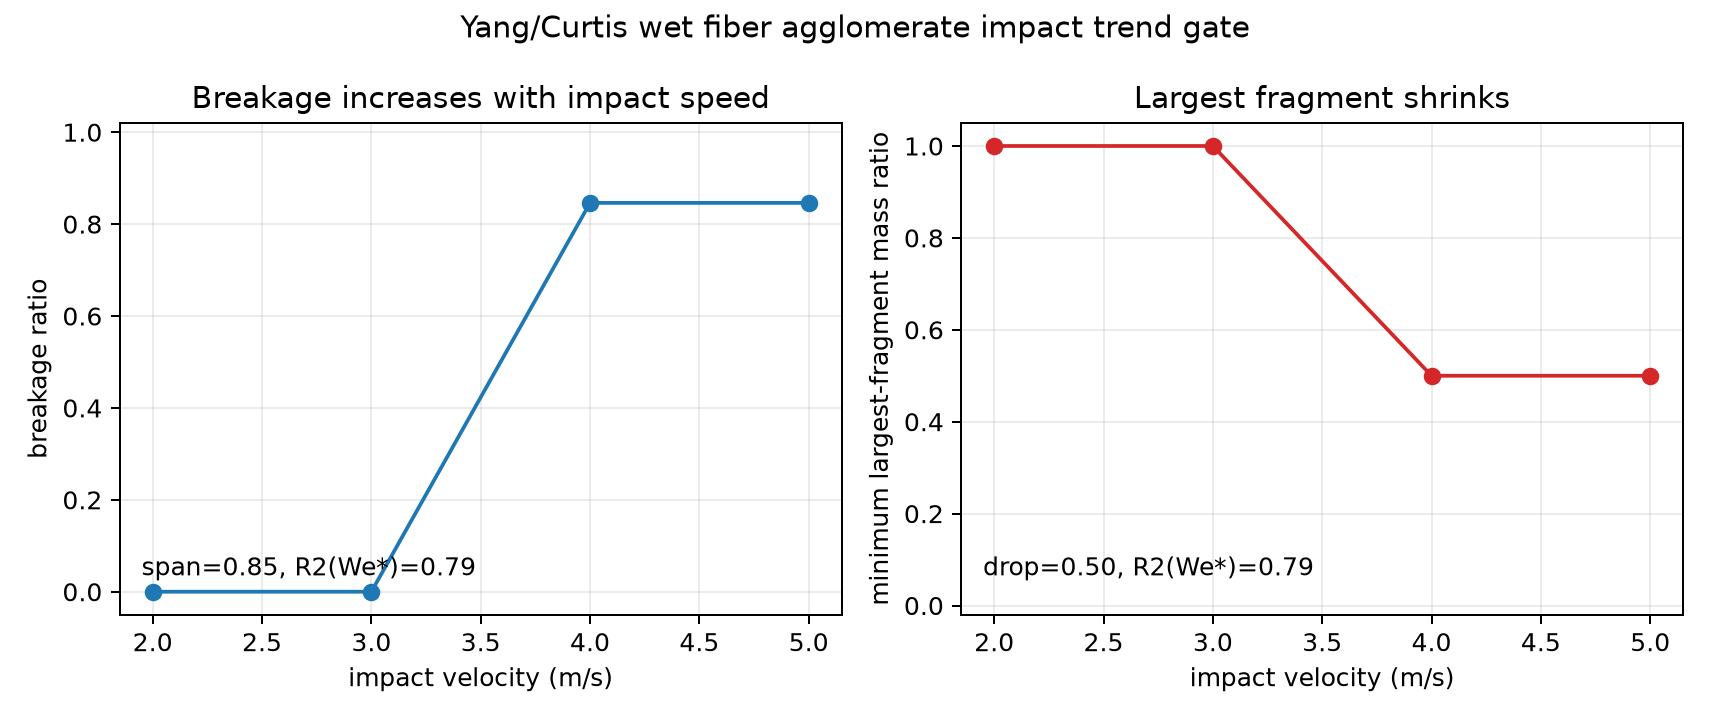
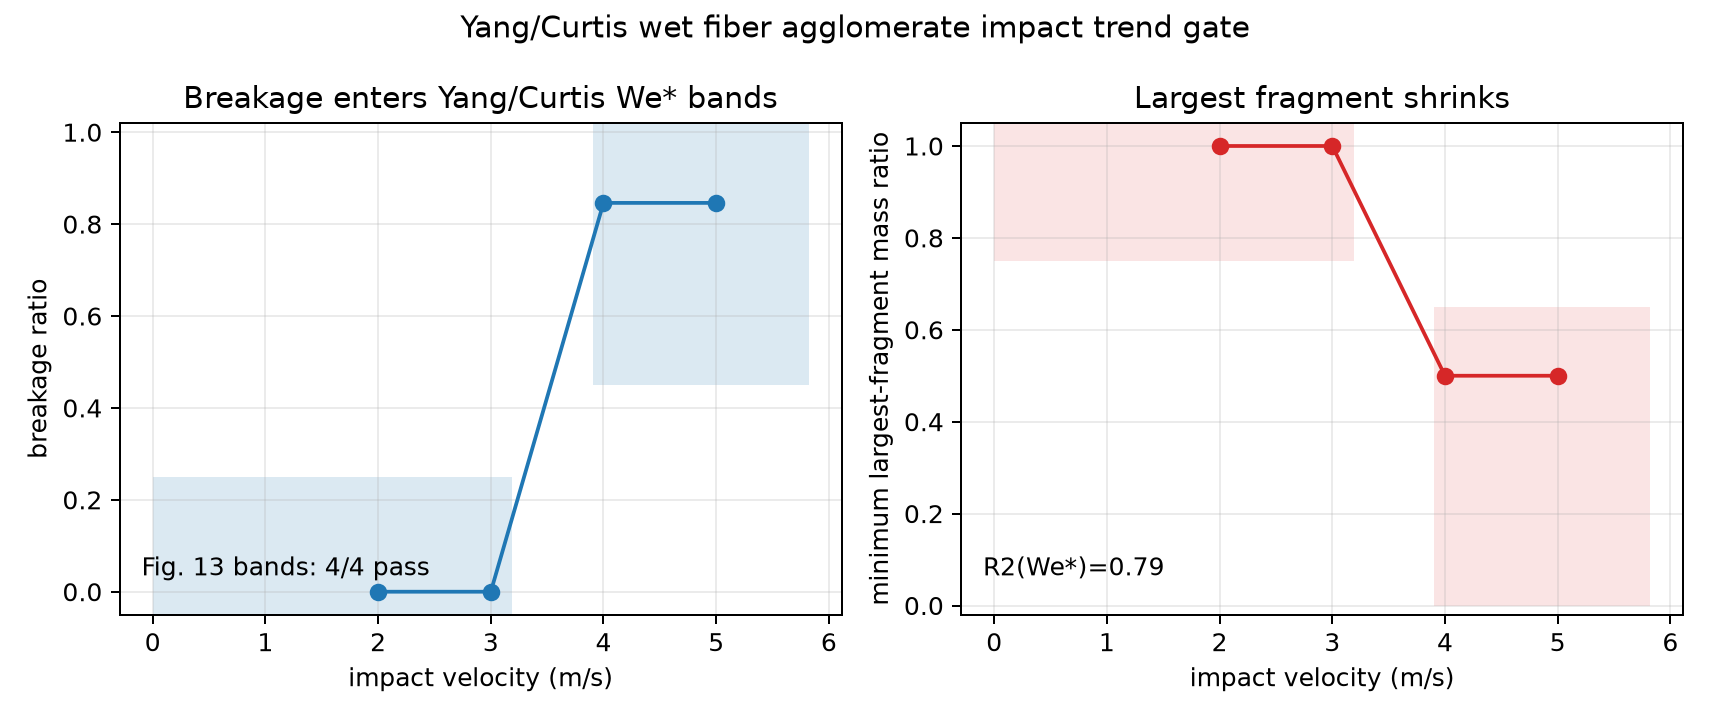
Gate wet fiber breakage against Yang Curtis bands

diff --git a/examples/bench_curtis_wet_fiber_breakage/sweep.py b/examples/bench_curtis_wet_fiber_breakage/sweep.py
@@ -32,10 +32,7 @@ RUPTURE = 4.0e-4
 RHO = 1700.0
 IMPACT_VELOCITIES = [2.0, 3.0, 4.0, 5.0]
 
-TREND_MIN_R2 = 0.75
-BREAKAGE_MIN_SPAN = 0.22
-MASS_MIN_DROP = 0.28
-MAX_OFFTREND = 1
+REFERENCE_BANDS = DATA / "yang_curtis_reference_bands.csv"
 
 
 def run(cmd: list[str]) -> None:
@@ -43,8 +40,9 @@ def run(cmd: list[str]) -> None:
     subprocess.run(cmd, cwd=ROOT, check=True)
 
 
-def generate_geometry(v: float = 1.0) -> None:
-    DATA.mkdir(exist_ok=True)
+def generate_geometry(v: float = 1.0, path: Path | None = None) -> None:
+    path = path or (DATA / "agglomerate.csv")
+    path.parent.mkdir(parents=True, exist_ok=True)
     rows: list[tuple[float, float, float, float]] = []
     offsets = [
         (0.0, 0.0, 0.0),
@@ -59,19 +57,24 @@ def generate_geometry(v: float = 1.0) -> None:
         for b in range(BEADS):
             x = (b - 0.5 * (BEADS - 1)) * BEAD_SPACING
             rows.append((ox + c * x, oy + s * x, base_z + oz, -v))
-    with open(DATA / "agglomerate.csv", "w") as fh:
+    with open(path, "w") as fh:
         fh.write("# x,y,z,vz\n")
         for x, y, z, vz in rows:
             fh.write(f"{x:.10e},{y:.10e},{z:.10e},{vz:.10e}\n")
 
 
 def write_config(v: float) -> Path:
-    generate_geometry(v)
     text = (HERE / "config.toml").read_text()
     out = SWEEP / f"v{v:.1f}"
+    geometry = out / "agglomerate.csv"
+    generate_geometry(v, geometry)
     cfg = out / "config.toml"
     out.mkdir(parents=True, exist_ok=True)
     text = text.replace("velocity_z = -1.0", f"velocity_z = -{v:.6f}")
+    text = text.replace(
+        'file = "examples/bench_curtis_wet_fiber_breakage/data/agglomerate.csv"',
+        f'file = "examples/bench_curtis_wet_fiber_breakage/sweep/v{v:.1f}/agglomerate.csv"',
+    )
     text = text.replace(
         'dir = "examples/bench_curtis_wet_fiber_breakage/sweep/template"',
         f'dir = "examples/bench_curtis_wet_fiber_breakage/sweep/v{v:.1f}"',
@@ -137,6 +140,40 @@ def summarize_case(v: float) -> dict[str, float]:
     }
 
 
+def load_reference_bands() -> list[dict[str, float | str]]:
+    bands: list[dict[str, float | str]] = []
+    with open(REFERENCE_BANDS) as fh:
+        for row in csv.DictReader(fh):
+            bands.append({
+                "modified_weber_min": float(row["modified_weber_min"]),
+                "modified_weber_max": float(row["modified_weber_max"]),
+                "breakage_min": float(row["breakage_min"]),
+                "breakage_max": float(row["breakage_max"]),
+                "mass_min": float(row["mass_min"]),
+                "mass_max": float(row["mass_max"]),
+                "source": row["source"],
+            })
+    if not bands:
+        raise RuntimeError(f"no reference bands in {REFERENCE_BANDS}")
+    return bands
+
+
+def matching_band(modified_weber: float, bands: list[dict[str, float | str]]) -> dict[str, float | str]:
+    for band in bands:
+        if band["modified_weber_min"] <= modified_weber <= band["modified_weber_max"]:
+            return band
+    raise RuntimeError(
+        f"We*={modified_weber:.1f} is outside the committed Yang/Curtis reference bands"
+    )
+
+
+def within_reference(row: dict[str, float], band: dict[str, float | str]) -> bool:
+    return (
+        band["breakage_min"] <= row["breakage_ratio"] <= band["breakage_max"]
+        and band["mass_min"] <= row["min_largest_fragment_mass_ratio"] <= band["mass_max"]
+    )
+
+
 def monotone_violations(values: list[float], increasing: bool) -> int:
     bad = 0
     for a, b in zip(values, values[1:]):
@@ -164,14 +201,25 @@ def graph() -> None:
     rows = [summarize_case(v) for v in IMPACT_VELOCITIES]
     with open(DATA / "velocity_sweep.csv", "w") as fh:
         fields = list(rows[0].keys())
-        writer = csv.DictWriter(fh, fieldnames=fields)
+        writer = csv.DictWriter(fh, fieldnames=fields, lineterminator="\n")
         writer.writeheader()
         writer.writerows(rows)
 
-    import matplotlib
+    try:
+        import matplotlib
+    except ModuleNotFoundError as exc:
+        raise SystemExit(
+            "matplotlib is required for graphing; run with the repo bench Python, "
+            "for example: source ~/projects/.build-env && "
+            "$BENCH_PYTHON examples/bench_curtis_wet_fiber_breakage/sweep.py"
+        ) from exc
 
     matplotlib.use("Agg")
     import matplotlib.pyplot as plt
+
+    bands = load_reference_bands()
+    for row in rows:
+        row["reference_pass"] = 1.0 if within_reference(row, matching_band(row["modified_weber"], bands)) else 0.0
 
     v = [r["velocity"] for r in rows]
     we = [r["modified_weber"] for r in rows]
@@ -181,34 +229,48 @@ def graph() -> None:
 
     br_r2 = linreg_r2(we, br)
     mr_r2 = linreg_r2(we, mr)
-    br_span = max(br) - min(br)
-    mr_drop = max(mr) - min(mr)
     br_bad = monotone_violations(br, True)
     mr_bad = monotone_violations(mr, False)
     bonds_active = max(bonds) > 0
-    pass_gate = (
-        br_r2 >= TREND_MIN_R2
-        and mr_r2 >= TREND_MIN_R2
-        and br_span >= BREAKAGE_MIN_SPAN
-        and mr_drop >= MASS_MIN_DROP
-        and br_bad <= MAX_OFFTREND
-        and mr_bad <= MAX_OFFTREND
-        and bonds_active
-    )
+    reference_passes = int(sum(r["reference_pass"] for r in rows))
+    pass_gate = reference_passes == len(rows) and bonds_active and br_bad == 0 and mr_bad == 0
+
+    def velocity_from_modified_weber(westar: float) -> float:
+        hstar = RUPTURE / RADIUS
+        return math.sqrt(max(westar, 0.0) * SURFACE_TENSION * hstar / (RHO * RADIUS))
 
     fig, axes = plt.subplots(1, 2, figsize=(9.5, 4.0))
+    for band in bands:
+        xmin = velocity_from_modified_weber(band["modified_weber_min"])
+        xmax = velocity_from_modified_weber(band["modified_weber_max"])
+        axes[0].fill_between(
+            [xmin, xmax],
+            [band["breakage_min"], band["breakage_min"]],
+            [band["breakage_max"], band["breakage_max"]],
+            color="tab:blue",
+            alpha=0.16,
+            linewidth=0,
+        )
+        axes[1].fill_between(
+            [xmin, xmax],
+            [band["mass_min"], band["mass_min"]],
+            [band["mass_max"], band["mass_max"]],
+            color="tab:red",
+            alpha=0.12,
+            linewidth=0,
+        )
     axes[0].plot(v, br, "o-", label="DIRT wet BPM agglomerate")
     axes[0].set_xlabel("impact velocity (m/s)")
     axes[0].set_ylabel("breakage ratio")
     axes[0].set_ylim(-0.05, 1.02)
-    axes[0].set_title("Breakage increases with impact speed")
-    axes[0].text(0.03, 0.08, f"span={br_span:.2f}, R2(We*)={br_r2:.2f}", transform=axes[0].transAxes)
+    axes[0].set_title("Breakage enters Yang/Curtis We* bands")
+    axes[0].text(0.03, 0.08, f"Fig. 13 bands: {reference_passes}/{len(rows)} pass", transform=axes[0].transAxes)
     axes[1].plot(v, mr, "o-", color="tab:red", label="DIRT wet BPM agglomerate")
     axes[1].set_xlabel("impact velocity (m/s)")
     axes[1].set_ylabel("minimum largest-fragment mass ratio")
     axes[1].set_ylim(-0.02, 1.05)
     axes[1].set_title("Largest fragment shrinks")
-    axes[1].text(0.03, 0.08, f"drop={mr_drop:.2f}, R2(We*)={mr_r2:.2f}", transform=axes[1].transAxes)
+    axes[1].text(0.03, 0.08, f"R2(We*)={mr_r2:.2f}", transform=axes[1].transAxes)
     for ax in axes:
         ax.grid(True, alpha=0.25)
     fig.suptitle("Yang/Curtis wet fiber agglomerate impact trend gate")
@@ -216,24 +278,53 @@ def graph() -> None:
     fig.savefig(PLOTS / "breakage_vs_impact_velocity.png", dpi=180)
     plt.close(fig)
 
-    fig, ax1 = plt.subplots(figsize=(6.0, 4.0))
+    fig, ax1 = plt.subplots(figsize=(6.8, 4.3))
+    for band in bands:
+        xmin = band["modified_weber_min"]
+        xmax = band["modified_weber_max"]
+        ax1.fill_between(
+            [xmin, xmax],
+            [band["breakage_min"], band["breakage_min"]],
+            [band["breakage_max"], band["breakage_max"]],
+            color="tab:blue",
+            alpha=0.16,
+            linewidth=0,
+        )
     ax1.plot(we, br, "o-", label="breakage ratio")
     ax1.set_xlabel("modified Weber number, We / S*")
     ax1.set_ylabel("breakage ratio")
     ax1.set_ylim(-0.05, 1.02)
     ax2 = ax1.twinx()
+    for band in bands:
+        xmin = band["modified_weber_min"]
+        xmax = band["modified_weber_max"]
+        ax2.fill_between(
+            [xmin, xmax],
+            [band["mass_min"], band["mass_min"]],
+            [band["mass_max"], band["mass_max"]],
+            color="tab:red",
+            alpha=0.12,
+            linewidth=0,
+        )
     ax2.plot(we, mr, "s-", color="tab:red", label="largest fragment")
     ax2.set_ylabel("minimum largest-fragment mass ratio")
     ax2.set_ylim(-0.02, 1.05)
     ax1.grid(True, alpha=0.25)
+    ax1.text(
+        0.03,
+        0.06,
+        f"Yang/Curtis Fig. 13 envelope: {reference_passes}/{len(rows)} pass",
+        transform=ax1.transAxes,
+    )
     fig.tight_layout()
     fig.savefig(PLOTS / "weber_trend.png", dpi=180)
     plt.close(fig)
 
     print(
         "wet_fiber_breakage: "
-        f"breakage_span={br_span:.3f} R2={br_r2:.3f} offtrend={br_bad}; "
-        f"mass_drop={mr_drop:.3f} R2={mr_r2:.3f} offtrend={mr_bad}; "
+        f"yang_curtis_reference={reference_passes}/{len(rows)}; "
+        f"breakage_R2={br_r2:.3f} offtrend={br_bad}; "
+        f"mass_R2={mr_r2:.3f} offtrend={mr_bad}; "
         f"max_bonds_broken={max(bonds):.0f} -> {'PASS' if pass_gate else 'FAIL'}"
     )
     if not pass_gate:

diff --git a/examples/bench_curtis_wet_fiber_breakage/README.md b/examples/bench_curtis_wet_fiber_breakage/README.md
@@ -13,30 +13,37 @@ measures the paper's two breakage observables: bridge-contact breakage ratio and
 minimum largest-fragment mass ratio.
 
 ```bash
-python3 examples/bench_curtis_wet_fiber_breakage/sweep.py
+source ~/projects/.build-env
+$BENCH_PYTHON examples/bench_curtis_wet_fiber_breakage/sweep.py
 ```
 
 ![breakage vs impact velocity](plots/breakage_vs_impact_velocity.png)
 
 *DIRT breakage ratio and minimum largest-fragment mass ratio over impact
-velocity. The quantitative gate requires the breakage ratio to rise, the largest
-fragment to shrink, both to correlate with modified Weber number, and at least
-one BPM bond to break. Latest run: PASS.*
+velocity. The quantitative gate checks every point against coarse Yang/Curtis
+Fig. 13 modified-Weber reference bands and requires at least one BPM bond to
+break. Latest run: PASS.*
 
 ![modified Weber trend](plots/weber_trend.png)
 
-*Same measurements against modified Weber number, following Yang et al.'s
-energy-ratio framing. Latest run: PASS.*
+*Same measurements against modified Weber number with the Yang/Curtis Fig. 13
+low-We* and high-We* reference bands shaded. Latest run: PASS.*
 
 ## Gate
 
-The trend gate is quantitative but avoids committing copyrighted figure data:
+The gate uses a small committed reference table,
+[`data/yang_curtis_reference_bands.csv`](data/yang_curtis_reference_bands.csv),
+read from the low- and high-modified-Weber envelopes in Yang et al. (2019)
+Fig. 13:
 
-* breakage-ratio span across the velocity sweep must be at least 0.22,
-* largest-fragment mass-ratio drop must be at least 0.28,
-* both metrics must have `R2 >= 0.75` against modified Weber number,
-* each curve may have at most one small off-trend step,
+* low `We* <= 150` cases must remain mostly intact
+  (`breakage_ratio <= 0.25`, `largest_fragment_mass_ratio >= 0.75`),
+* high `225 <= We* <= 500` cases must be in the post-transition breakage band
+  (`breakage_ratio >= 0.45`, `largest_fragment_mass_ratio <= 0.65`),
+* every DIRT point must fall inside its Yang/Curtis band,
+* the breakage ratio must not decrease and largest-fragment ratio must not
+  increase over this ordered sweep,
 * BPM bond breakage must be active (`max(bonds_broken) > 0`).
 
-These checks encode the paper's reported trends without storing its plotted
-points in this repository.
+The table stores only coarse pass bands with citation/provenance, not copied
+paper figures.

diff --git a/examples/VALIDATION.md b/examples/VALIDATION.md
@@ -97,18 +97,20 @@ A small wet BPM fiber agglomerate impacts a plane with Willett pendular
 liquid-bridge cohesion enabled between fibers and bond breakage enabled inside
 the flexible fibers. The benchmark follows Yang et al. (2019): breakage ratio
 must increase with impact velocity / modified Weber number, and the minimum
-largest-fragment mass ratio must decrease. The gate is trend-based rather than
-digitized-figure based so no copyrighted plotted data is stored in git.
+largest-fragment mass ratio must decrease. The gate compares every DIRT point to
+a coarse external Yang/Curtis Fig. 13 modified-Weber reference band committed as
+`data/yang_curtis_reference_bands.csv`.
 
 ![Wet fiber breakage velocity trend](bench_curtis_wet_fiber_breakage/plots/breakage_vs_impact_velocity.png)
 
 *Breakage ratio and largest-fragment mass ratio across the DIRT velocity sweep.
-Latest run: PASS against the quantitative trend gate.*
+Latest run: PASS against the Yang/Curtis Fig. 13 low/high modified-Weber
+reference bands.*
 
 ![Wet fiber modified Weber trend](bench_curtis_wet_fiber_breakage/plots/weber_trend.png)
 
-*Same measurements against modified Weber number, matching Yang et al.'s
-energy-ratio framing. Latest run: PASS.*
+*Same measurements against modified Weber number with the Yang/Curtis reference
+bands shaded. Latest run: PASS.*
 
 ---
 
